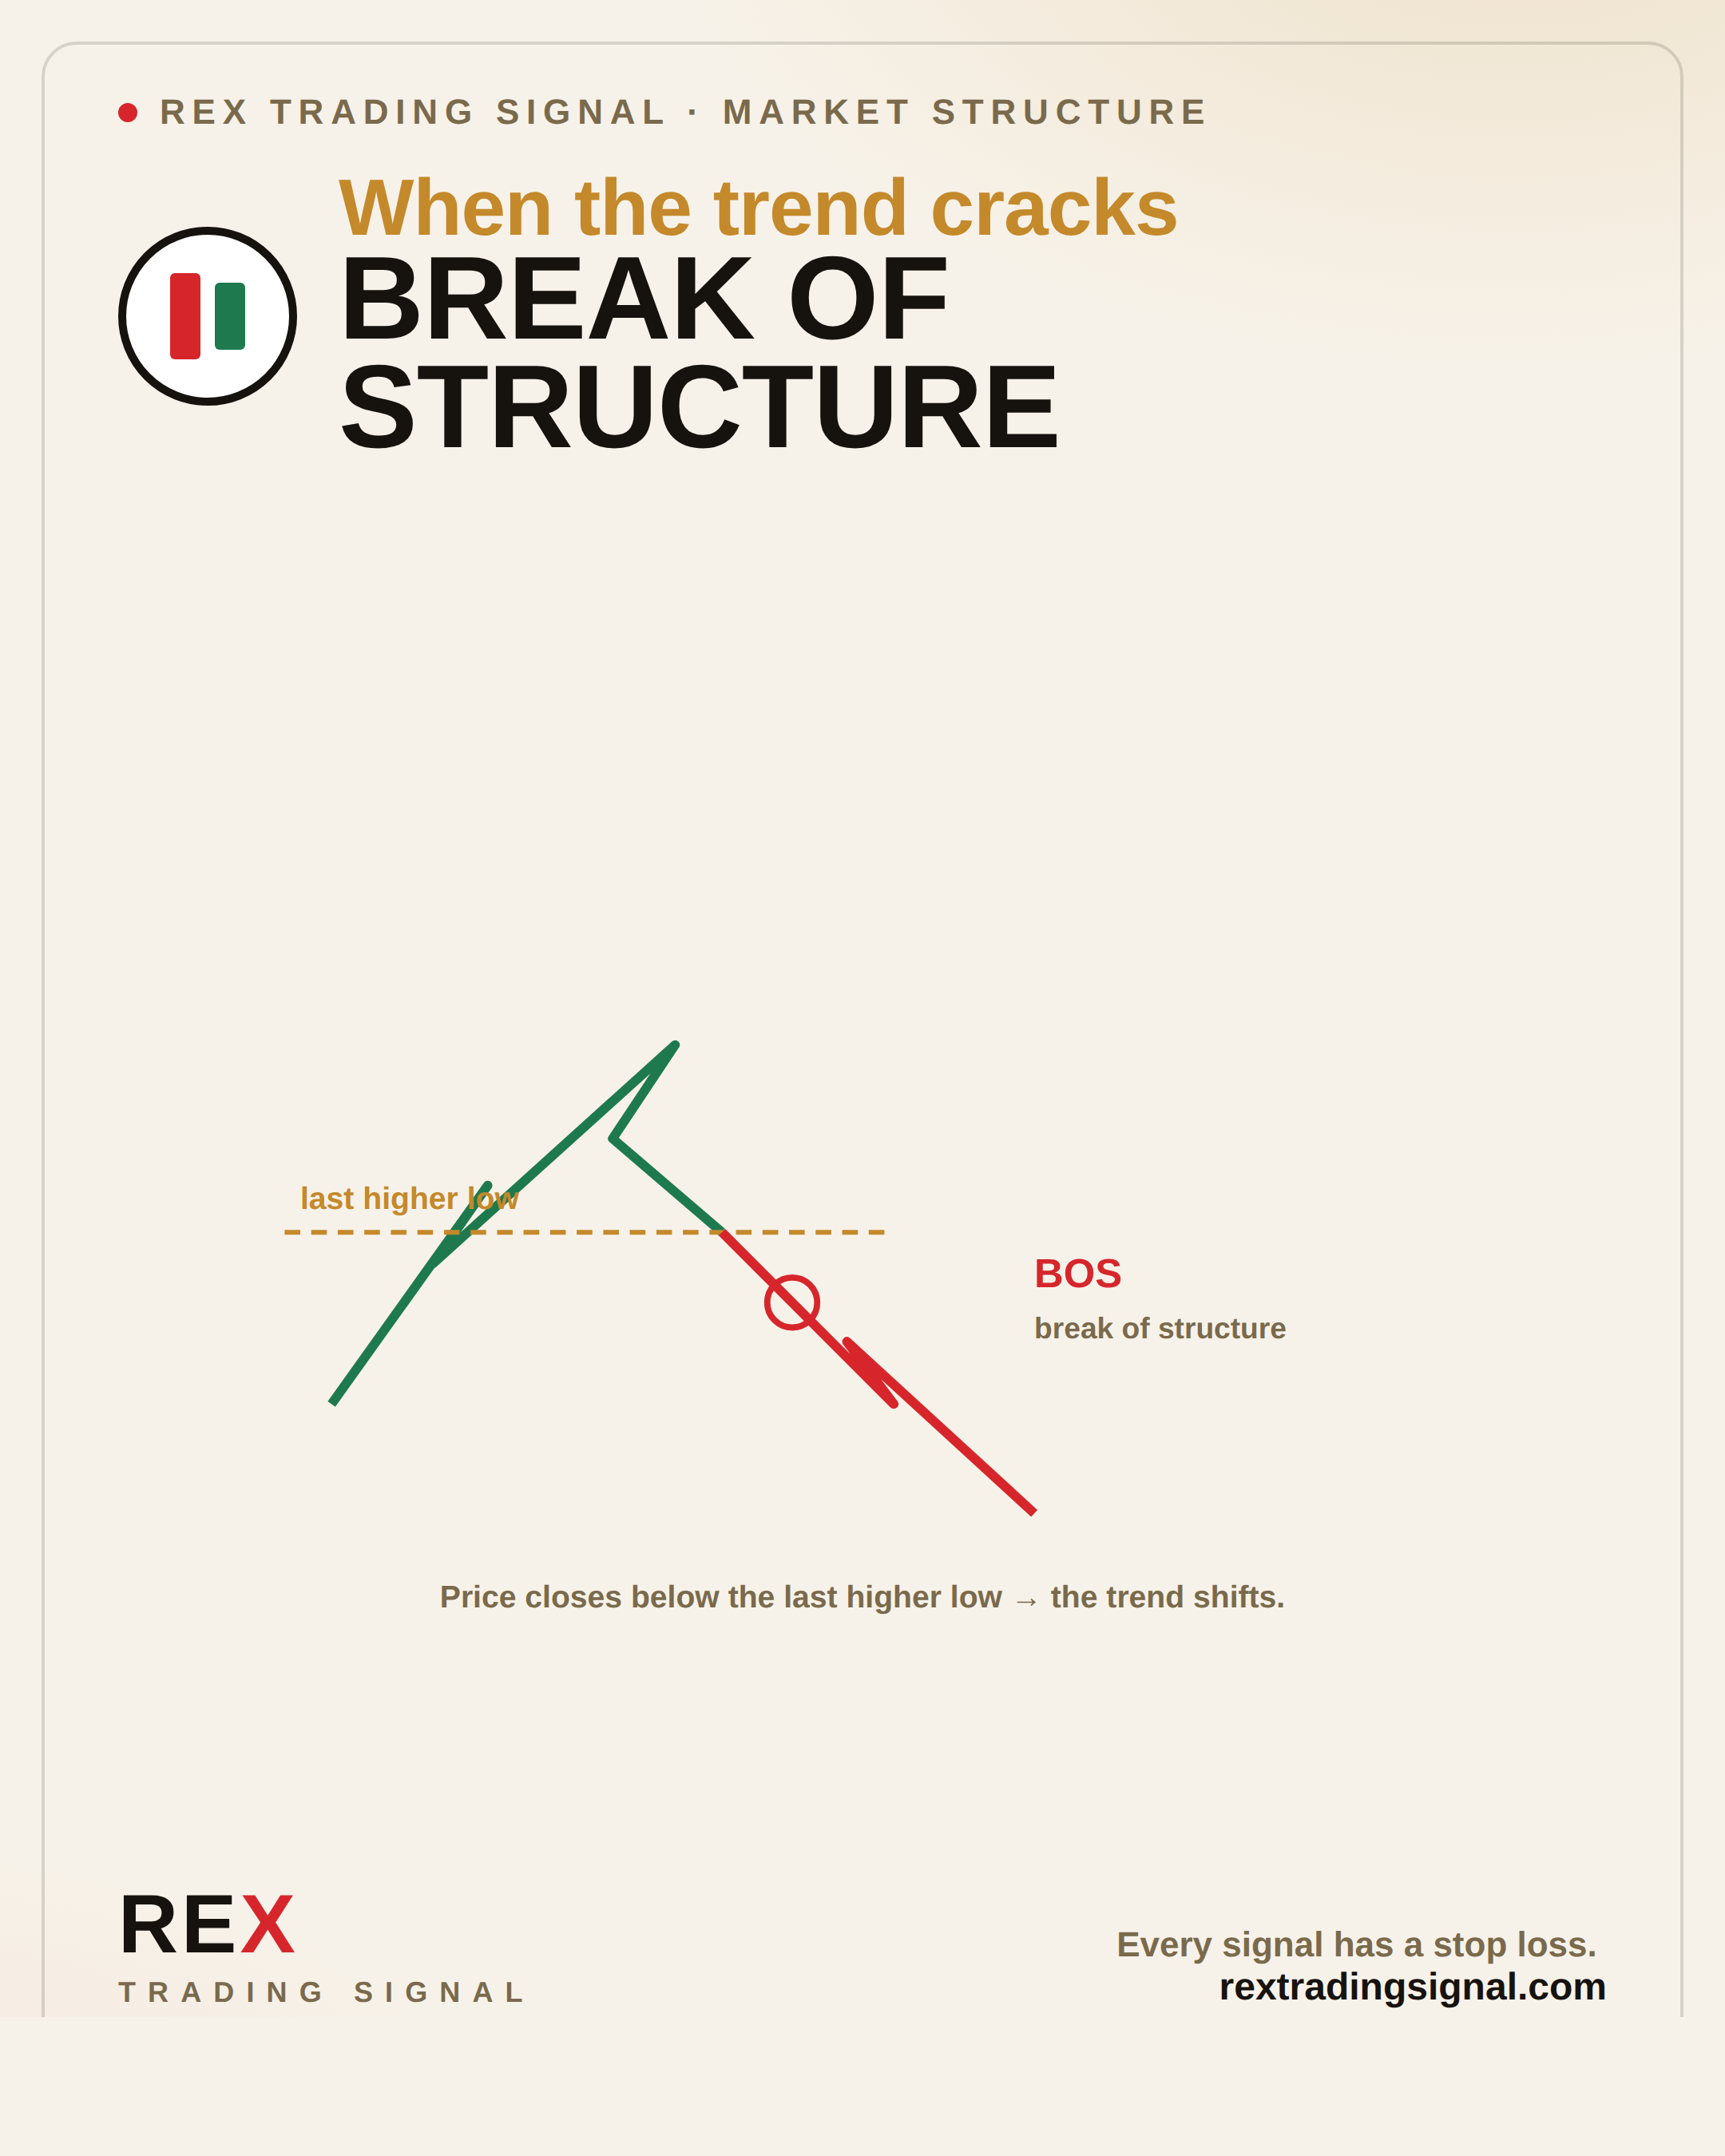
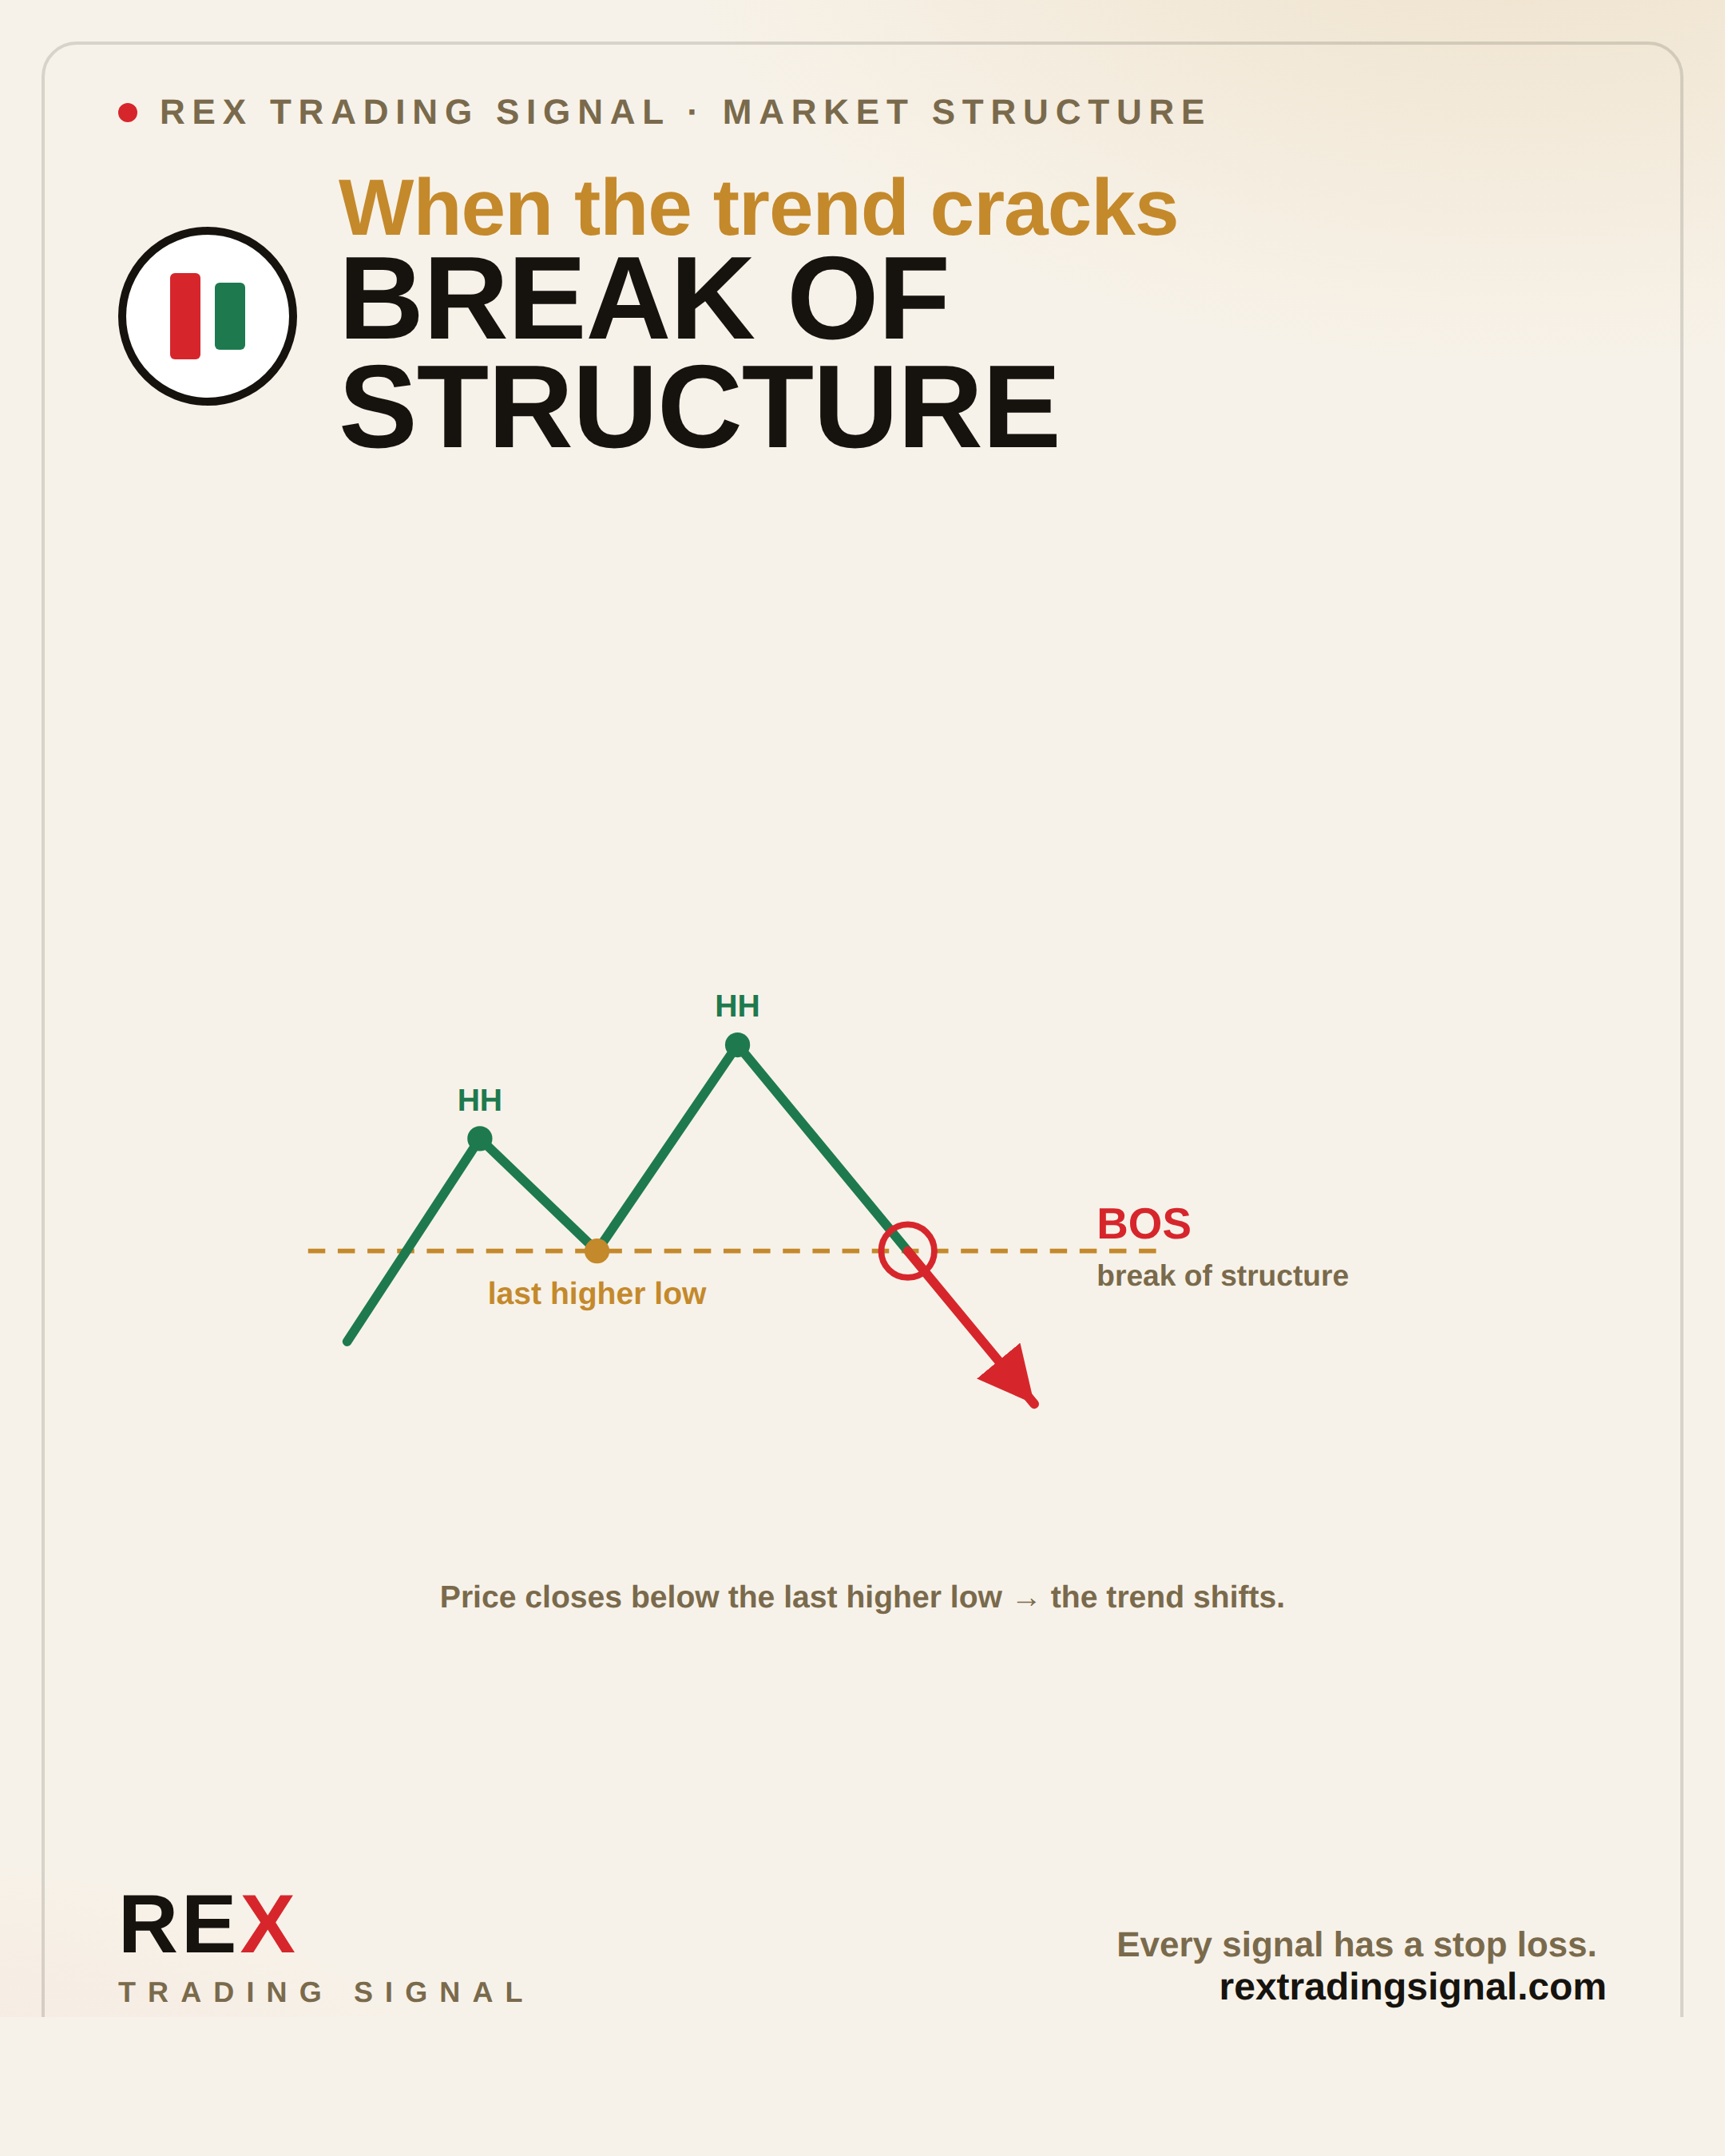
Redraw Reading the Trend & Break of Structure infographics for accuracy
- rex_10_trend: clean HH/HL and LH/LL staircases with labeled swing points
- rex_11_bos: accurate structure — price breaks below the last higher low (BOS)

Claude-Session: https://claude.ai/code/session_01BA9Vv43itpL5dRsfoTDvs4

Changed region(s): [[0.1861, 0.4667, 0.5583, 0.6533], [0.5273, 0.56, 0.7444, 0.6844]]

diff --git a/facebook/infographics/src/rex_10_trend.html b/facebook/infographics/src/rex_10_trend.html
@@ -26,7 +26,7 @@ text{font-family:'Arial','Helvetica Neue',sans-serif}
   <div class="kicker"><span class="dot"></span> REX TRADING SIGNAL &middot; MARKET STRUCTURE</div>
   <div class="head"><div class="badge"><span class="c cr"></span><span class="c cg"></span></div>
     <h1><span class="l1">Structure over noise</span><span class="l2">Reading the Trend</span></h1></div>
-  <div class="stage"><svg width="880" height="587" viewBox="0 0 900 600"><defs><marker id="ar" markerWidth="10" markerHeight="10" refX="6" refY="3" orient="auto"><path d="M0,0 L6,3 L0,6 Z" fill="#7a6a4c"/></marker><marker id="arG" markerWidth="10" markerHeight="10" refX="6" refY="3" orient="auto"><path d="M0,0 L6,3 L0,6 Z" fill="#1E7A4E"/></marker><marker id="arR" markerWidth="10" markerHeight="10" refX="6" refY="3" orient="auto"><path d="M0,0 L6,3 L0,6 Z" fill="#D6262C"/></marker></defs><text x="250" y="80" text-anchor="middle" font-size="28" font-weight="800" fill="#1E7A4E">UPTREND</text><polyline points="110,520 190,400 160,440 300,300 270,340 410,190" fill="none" stroke="#1E7A4E" stroke-width="6" stroke-linejoin="round"/><line x1="120" y1="520" x2="405" y2="200" stroke="#1E7A4E" stroke-width="5" marker-end="url(#arG)"/><text x="250" y="560" text-anchor="middle" font-size="20" font-weight="800" fill="#7a6a4c">higher highs + higher lows</text><line x1="450" y1="120" x2="450" y2="560" stroke="rgba(22,19,15,.18)" stroke-width="2" stroke-dasharray="7 8"/><text x="680" y="80" text-anchor="middle" font-size="28" font-weight="800" fill="#D6262C">DOWNTREND</text><polyline points="510,200 590,320 560,280 700,420 670,380 810,520" fill="none" stroke="#D6262C" stroke-width="6" stroke-linejoin="round"/><line x1="520" y1="205" x2="805" y2="515" stroke="#D6262C" stroke-width="5" marker-end="url(#arR)"/><text x="680" y="560" text-anchor="middle" font-size="20" font-weight="800" fill="#7a6a4c">lower highs + lower lows</text></svg></div>
+  <div class="stage"><svg width="880" height="626" viewBox="0 0 900 640"><defs><marker id="ar" markerWidth="10" markerHeight="10" refX="6" refY="3" orient="auto"><path d="M0,0 L6,3 L0,6 Z" fill="#7a6a4c"/></marker><marker id="arG" markerWidth="10" markerHeight="10" refX="6" refY="3" orient="auto"><path d="M0,0 L6,3 L0,6 Z" fill="#1E7A4E"/></marker><marker id="arR" markerWidth="10" markerHeight="10" refX="6" refY="3" orient="auto"><path d="M0,0 L6,3 L0,6 Z" fill="#D6262C"/></marker></defs><text x="262" y="74" text-anchor="middle" font-size="28" font-weight="800" fill="#1E7A4E">UPTREND</text><polyline points="100,470 170,330 235,405 305,255 370,325 430,175" fill="none" stroke="#1E7A4E" stroke-width="6" stroke-linejoin="round" stroke-linecap="round"/><circle cx="100" cy="470" r="8" fill="#1E7A4E"/><circle cx="170" cy="330" r="8" fill="#1E7A4E"/><circle cx="235" cy="405" r="8" fill="#1E7A4E"/><circle cx="305" cy="255" r="8" fill="#1E7A4E"/><circle cx="370" cy="325" r="8" fill="#1E7A4E"/><circle cx="430" cy="175" r="8" fill="#1E7A4E"/><text x="305" y="238" text-anchor="middle" font-size="20" font-weight="800" fill="#1E7A4E">HH</text><text x="430" y="158" text-anchor="middle" font-size="20" font-weight="800" fill="#1E7A4E">HH</text><text x="235" y="440" text-anchor="middle" font-size="20" font-weight="800" fill="#1E7A4E">HL</text><text x="370" y="360" text-anchor="middle" font-size="20" font-weight="800" fill="#1E7A4E">HL</text><text x="262" y="600" text-anchor="middle" font-size="22" font-weight="800" fill="#7a6a4c">higher highs + higher lows</text><line x1="460" y1="130" x2="460" y2="560" stroke="rgba(22,19,15,.18)" stroke-width="2" stroke-dasharray="7 8"/><text x="672" y="74" text-anchor="middle" font-size="28" font-weight="800" fill="#D6262C">DOWNTREND</text><polyline points="500,175 560,320 625,250 690,400 750,330 810,470" fill="none" stroke="#D6262C" stroke-width="6" stroke-linejoin="round" stroke-linecap="round"/><circle cx="500" cy="175" r="8" fill="#D6262C"/><circle cx="560" cy="320" r="8" fill="#D6262C"/><circle cx="625" cy="250" r="8" fill="#D6262C"/><circle cx="690" cy="400" r="8" fill="#D6262C"/><circle cx="750" cy="330" r="8" fill="#D6262C"/><circle cx="810" cy="470" r="8" fill="#D6262C"/><text x="625" y="234" text-anchor="middle" font-size="20" font-weight="800" fill="#D6262C">LH</text><text x="750" y="314" text-anchor="middle" font-size="20" font-weight="800" fill="#D6262C">LH</text><text x="690" y="440" text-anchor="middle" font-size="20" font-weight="800" fill="#D6262C">LL</text><text x="810" y="508" text-anchor="middle" font-size="20" font-weight="800" fill="#D6262C">LL</text><text x="672" y="600" text-anchor="middle" font-size="22" font-weight="800" fill="#7a6a4c">lower highs + lower lows</text></svg></div>
   <div class="foot">
     <div class="logo"><div class="r">RE<b>X</b></div><div class="s">TRADING SIGNAL</div></div>
     <div class="site">Every signal has a stop loss.&nbsp;<b>rextradingsignal.com</b></div>

diff --git a/facebook/infographics/src/rex_11_bos.html b/facebook/infographics/src/rex_11_bos.html
@@ -26,7 +26,7 @@ text{font-family:'Arial','Helvetica Neue',sans-serif}
   <div class="kicker"><span class="dot"></span> REX TRADING SIGNAL &middot; MARKET STRUCTURE</div>
   <div class="head"><div class="badge"><span class="c cr"></span><span class="c cg"></span></div>
     <h1><span class="l1">When the trend cracks</span><span class="l2">Break of Structure</span></h1></div>
-  <div class="stage"><svg width="880" height="626" viewBox="0 0 900 640"><defs><marker id="ar" markerWidth="10" markerHeight="10" refX="6" refY="3" orient="auto"><path d="M0,0 L6,3 L0,6 Z" fill="#7a6a4c"/></marker><marker id="arG" markerWidth="10" markerHeight="10" refX="6" refY="3" orient="auto"><path d="M0,0 L6,3 L0,6 Z" fill="#1E7A4E"/></marker><marker id="arR" markerWidth="10" markerHeight="10" refX="6" refY="3" orient="auto"><path d="M0,0 L6,3 L0,6 Z" fill="#D6262C"/></marker></defs><polyline points="110,470 210,330 175,380 330,240 290,300 360,360" fill="none" stroke="#1E7A4E" stroke-width="6" stroke-linejoin="round"/><line x1="80" y1="360" x2="470" y2="360" stroke="#C4892B" stroke-width="3" stroke-dasharray="10 7"/><text x="90" y="345" text-anchor="start" font-size="20" font-weight="800" fill="#C4892B">last higher low</text><polyline points="360,360 470,470 440,430 560,540" fill="none" stroke="#D6262C" stroke-width="6" stroke-linejoin="round"/><circle cx="405" cy="405" r="16" fill="none" stroke="#D6262C" stroke-width="4"/><text x="560" y="395" text-anchor="start" font-size="26" font-weight="900" fill="#D6262C">BOS</text><text x="560" y="428" text-anchor="start" font-size="19" font-weight="700" fill="#7a6a4c">break of structure</text><text x="450" y="600" text-anchor="middle" font-size="20" font-weight="800" fill="#7a6a4c">Price closes below the last higher low &#8594; the trend shifts.</text></svg></div>
+  <div class="stage"><svg width="880" height="626" viewBox="0 0 900 640"><defs><marker id="ar" markerWidth="10" markerHeight="10" refX="6" refY="3" orient="auto"><path d="M0,0 L6,3 L0,6 Z" fill="#7a6a4c"/></marker><marker id="arG" markerWidth="10" markerHeight="10" refX="6" refY="3" orient="auto"><path d="M0,0 L6,3 L0,6 Z" fill="#1E7A4E"/></marker><marker id="arR" markerWidth="10" markerHeight="10" refX="6" refY="3" orient="auto"><path d="M0,0 L6,3 L0,6 Z" fill="#D6262C"/></marker></defs><line x1="95" y1="372" x2="645" y2="372" stroke="#C4892B" stroke-width="3" stroke-dasharray="11 8"/><text x="280" y="406" text-anchor="middle" font-size="20" font-weight="800" fill="#C4892B">last higher low</text><polyline points="120,430 205,300 280,372 370,240 479,372" fill="none" stroke="#1E7A4E" stroke-width="6" stroke-linejoin="round" stroke-linecap="round"/><polyline points="479,372 560,470" fill="none" stroke="#D6262C" stroke-width="6" stroke-linejoin="round" stroke-linecap="round" marker-end="url(#arR)"/><circle cx="205" cy="300" r="8" fill="#1E7A4E"/><text x="205" y="282" text-anchor="middle" font-size="20" font-weight="800" fill="#1E7A4E">HH</text><circle cx="370" cy="240" r="8" fill="#1E7A4E"/><text x="370" y="222" text-anchor="middle" font-size="20" font-weight="800" fill="#1E7A4E">HH</text><circle cx="280" cy="372" r="8" fill="#C4892B"/><circle cx="479" cy="372" r="17" fill="none" stroke="#D6262C" stroke-width="4"/><text x="600" y="364" text-anchor="start" font-size="28" font-weight="900" fill="#D6262C">BOS</text><text x="600" y="394" text-anchor="start" font-size="19" font-weight="700" fill="#7a6a4c">break of structure</text><text x="450" y="600" text-anchor="middle" font-size="20" font-weight="800" fill="#7a6a4c">Price closes below the last higher low &#8594; the trend shifts.</text></svg></div>
   <div class="foot">
     <div class="logo"><div class="r">RE<b>X</b></div><div class="s">TRADING SIGNAL</div></div>
     <div class="site">Every signal has a stop loss.&nbsp;<b>rextradingsignal.com</b></div>

diff --git a/facebook/infographics/src/generate.py b/facebook/infographics/src/generate.py
@@ -198,25 +198,44 @@ s+= T(120,540,24,"SUPPORT &mdash; the floor","start",800,GREEN)
 pages.append(page("rex_09_sr","REX TRADING SIGNAL &middot; MARKET STRUCTURE","The floor and the ceiling","Support &amp; Resistance",s,vbh=600))
 
 # ---------- 10. READING THE TREND ----------
-s = T(250,80,28,"UPTREND",fill=GREEN)
-s+= '<polyline points="110,520 190,400 160,440 300,300 270,340 410,190" fill="none" stroke="%s" stroke-width="6" stroke-linejoin="round"/>'%GREEN
-s+= L(120,520,405,200,"arG",GREEN,5)
-s+= T(250,560,20,"higher highs + higher lows",fill=BROWN)
-s+= '<line x1="450" y1="120" x2="450" y2="560" stroke="rgba(22,19,15,.18)" stroke-width="2" stroke-dasharray="7 8"/>'
-s+= T(680,80,28,"DOWNTREND",fill=RED)
-s+= '<polyline points="510,200 590,320 560,280 700,420 670,380 810,520" fill="none" stroke="%s" stroke-width="6" stroke-linejoin="round"/>'%RED
-s+= L(520,205,805,515,"arR",RED,5)
-s+= T(680,560,20,"lower highs + lower lows",fill=BROWN)
-pages.append(page("rex_10_trend","REX TRADING SIGNAL &middot; MARKET STRUCTURE","Structure over noise","Reading the Trend",s,vbh=600))
+def dot(x,y,c): return '<circle cx="%d" cy="%d" r="8" fill="%s"/>'%(x,y,c)
+# UPTREND: clean rising staircase of higher highs + higher lows
+up=[(100,470),(170,330),(235,405),(305,255),(370,325),(430,175)]
+s = T(262,74,28,"UPTREND",fill=GREEN)
+s+= '<polyline points="%s" fill="none" stroke="%s" stroke-width="6" stroke-linejoin="round" stroke-linecap="round"/>'%(" ".join("%d,%d"%p for p in up),GREEN)
+for x,y in up: s+=dot(x,y,GREEN)
+s+= T(305,238,20,"HH",fill=GREEN)+T(430,158,20,"HH",fill=GREEN)
+s+= T(235,440,20,"HL",fill=GREEN)+T(370,360,20,"HL",fill=GREEN)
+s+= T(262,600,22,"higher highs + higher lows",fill=BROWN)
+s+= '<line x1="460" y1="130" x2="460" y2="560" stroke="rgba(22,19,15,.18)" stroke-width="2" stroke-dasharray="7 8"/>'
+# DOWNTREND: clean falling staircase of lower highs + lower lows
+dn=[(500,175),(560,320),(625,250),(690,400),(750,330),(810,470)]
+s+= T(672,74,28,"DOWNTREND",fill=RED)
+s+= '<polyline points="%s" fill="none" stroke="%s" stroke-width="6" stroke-linejoin="round" stroke-linecap="round"/>'%(" ".join("%d,%d"%p for p in dn),RED)
+for x,y in dn: s+=dot(x,y,RED)
+s+= T(625,234,20,"LH",fill=RED)+T(750,314,20,"LH",fill=RED)
+s+= T(690,440,20,"LL",fill=RED)+T(810,508,20,"LL",fill=RED)
+s+= T(672,600,22,"lower highs + lower lows",fill=BROWN)
+pages.append(page("rex_10_trend","REX TRADING SIGNAL &middot; MARKET STRUCTURE","Structure over noise","Reading the Trend",s,vbh=640))
 
 # ---------- 11. BREAK OF STRUCTURE ----------
-s = '<polyline points="110,470 210,330 175,380 330,240 290,300 360,360" fill="none" stroke="%s" stroke-width="6" stroke-linejoin="round"/>'%GREEN
-s+= '<line x1="80" y1="360" x2="470" y2="360" stroke="%s" stroke-width="3" stroke-dasharray="10 7"/>'%GOLD
-s+= T(90,345,20,"last higher low","start",800,GOLD)
-s+= '<polyline points="360,360 470,470 440,430 560,540" fill="none" stroke="%s" stroke-width="6" stroke-linejoin="round"/>'%RED
-s+= '<circle cx="405" cy="405" r="16" fill="none" stroke="%s" stroke-width="4"/>'%RED
-s+= T(560,395,26,"BOS","start",900,RED)
-s+= T(560,428,19,"break of structure","start",700,BROWN)
+# uptrend makes HH & HL, then price closes below the last higher low -> BOS
+HLY=372
+# dashed 'last higher low' level
+s = '<line x1="95" y1="%d" x2="645" y2="%d" stroke="%s" stroke-width="3" stroke-dasharray="11 8"/>'%(HLY,HLY,GOLD)
+s+= T(280,406,20,"last higher low","middle",800,GOLD)
+# green structure: start low -> HH -> HL(on line) -> higher HH -> falling to the break level
+s+= '<polyline points="120,430 205,300 280,372 370,240 479,372" fill="none" stroke="%s" stroke-width="6" stroke-linejoin="round" stroke-linecap="round"/>'%GREEN
+# red leg after breaking below the last higher low
+s+= '<polyline points="479,372 560,470" fill="none" stroke="%s" stroke-width="6" stroke-linejoin="round" stroke-linecap="round" marker-end="url(#arR)"/>'%RED
+# swing dots + labels
+s+= dot(205,300,GREEN)+T(205,282,20,"HH",fill=GREEN)
+s+= dot(370,240,GREEN)+T(370,222,20,"HH",fill=GREEN)
+s+= dot(280,372,GOLD)
+# break marker
+s+= '<circle cx="479" cy="372" r="17" fill="none" stroke="%s" stroke-width="4"/>'%RED
+s+= T(600,364,28,"BOS","start",900,RED)
+s+= T(600,394,19,"break of structure","start",700,BROWN)
 s+= T(450,600,20,"Price closes below the last higher low &#8594; the trend shifts.",fill=BROWN)
 pages.append(page("rex_11_bos","REX TRADING SIGNAL &middot; MARKET STRUCTURE","When the trend cracks","Break of Structure",s,vbh=640))
 